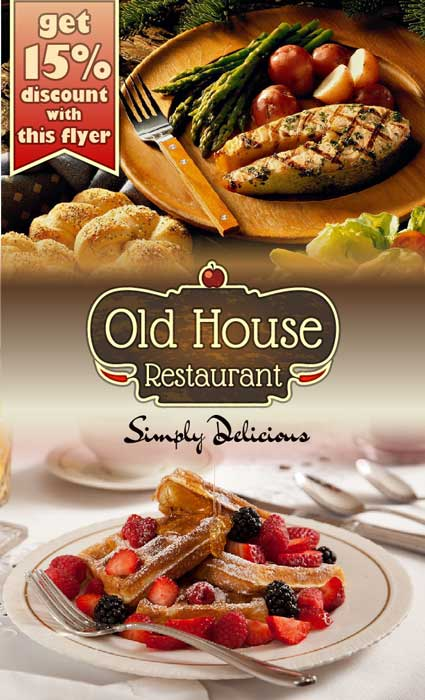
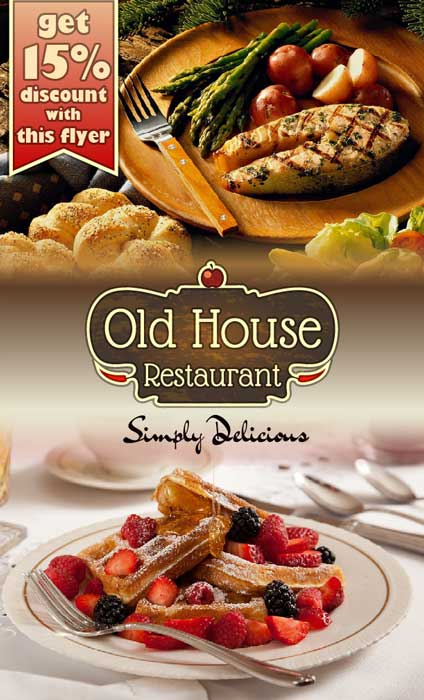
update

diff --git a/noFlash.html b/noFlash.html
@@ -1,4 +1,4 @@
-<!DOCTYPE html>
+<!DOCTYPE html>
 <html>
 <head>
 <meta http-equiv="Content-Type" content="text/html; charset=utf-8" />
@@ -31,13 +31,13 @@ function toggle(elementId) {
 
 <script src="https://ajax.googleapis.com/ajax/libs/jquery/1.12.0/jquery.min.js"></script>
 <script>
-$(document).ready(function() {  
-$(window).load(function(){
+$(document).ready(function() { 
+$(".load_first" ).load(function(){
 	$('#preloader').fadeOut('fast').remove(); 
 	});
-	
 	$('#intro').delay(4000).fadeOut('slow');
-});
+	});
+	
 </script>
 	
 </head>
@@ -46,25 +46,26 @@ $(window).load(function(){
 
 <div id="preloader"></div>
 
-<img id="intro" src="images/showingMobileIntro.gif" alt="intro" width="960" height="720" />
+<img class="load_first" id="intro" src="images/showingMobileIntro.gif" alt="intro" width="960" height="720" />
 
 <div style="height:0px;"><p style="font-size:0px; color:#4E3447;">Hanna Habela - freelance graphic design</p></div>
 <div id="container">
+ 
  <div id="header">
   <div id="logo">
-  <img class="responsive" src="images/HannaHabela.png" alt="Hanna Habela" width="770" height="220" />
+  <img class="load_first" class="responsive" src="images/HannaHabela.png" alt="Hanna Habela" width="770" height="220" />
   </div>
  </div>
  
  <div id="graphicDesign">
   <div id="graphicDesignTag">
-   <img class="responsive" src="images/graphicDesign.png" alt="graphic design" width="670" height="110" />
+   <img class="load_first" class="responsive" src="images/graphicDesign.png" alt="graphic design" width="670" height="110" />
   </div>
  </div> 
  
  <div id="bannerContainer">
   <div id="banner">
-   <img class="responsive" src="images/banner.gif" alt="logo, web design, game artm illustration, animation, flyer, brochure, banner, photo manipulation, infographic and more" width="1154" height="417" />
+   <img class="load_first" class="responsive" src="images/banner.gif" alt="logo, web design, game artm illustration, animation, flyer, brochure, banner, photo manipulation, infographic and more" width="1154" height="417" />
    </div>
   </div>
   
@@ -73,13 +74,15 @@ $(window).load(function(){
    <div id="toggleEmail" style="display: none"><a class="email" href="mailto:haniahabela@gmail.com">haniahabela@gmail.com</a></div>
   </div>
   
+
+  
   <div id="content">
    <div id="portfolio">
-   <img class="responsive" src="images/Tropical_Breeze.jpg" alt="Tropical Breeze, vintage retro add 50s, beverage, cocktail" width="518" height="700"/>
+   <img class="load_first" class="responsive" src="images/Tropical_Breeze.jpg" alt="Tropical Breeze, vintage retro add 50s, beverage, cocktail" width="518" height="700"/>
    <img class="responsive" src="images/layout_FOR_MEN_only.jpg" alt="responsive website, mens cosmetics" width="920" height="700" />
    <img class="responsive" src="images/disco_kids.jpg" alt="disco kids, 70s" width="1000" height="600" />
    <img class="responsive" src="images/Logo_Set.jpg" alt="logo design" width="700" height="700" />
-   <img class="responsive" src="images/RestaurantFlyerOldHouse.jpg" alt="restaurant flyer" width="425" height="700" />
+   <img class="responsive" src="images/RestaurantFlyerOldHouse.jpg" alt="restaurant flyer" width="424" height="700" />
    <img class="responsive" src="images/JOLAcafeCoupons.jpg" alt="retro coupons graphic design" width="700" height="444" />
    <img class="responsive" src="images/kabaretowki.jpg" alt="vector illustration, jazz, cabaret" width="803" height="700" />
    <img class="responsive" src="images/foto_stylizacje.jpg" alt="photo manipulation" width="690" height="700" />
